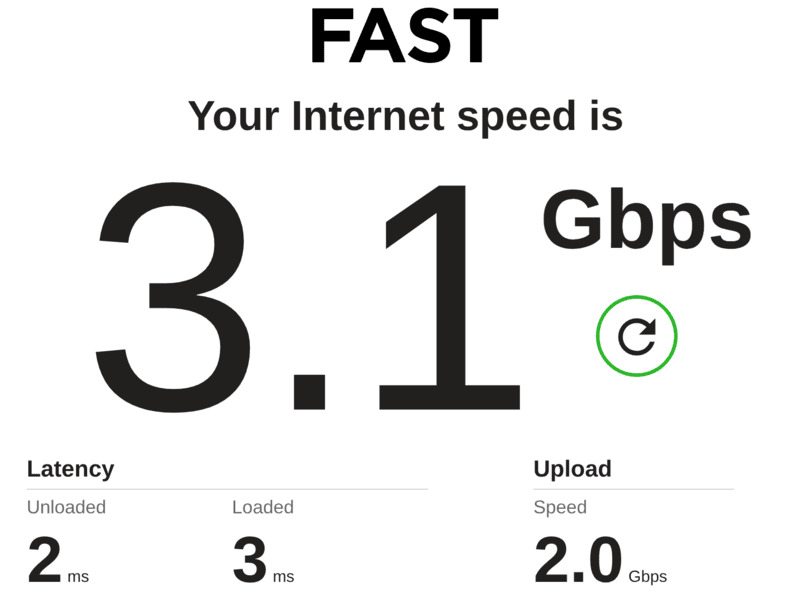
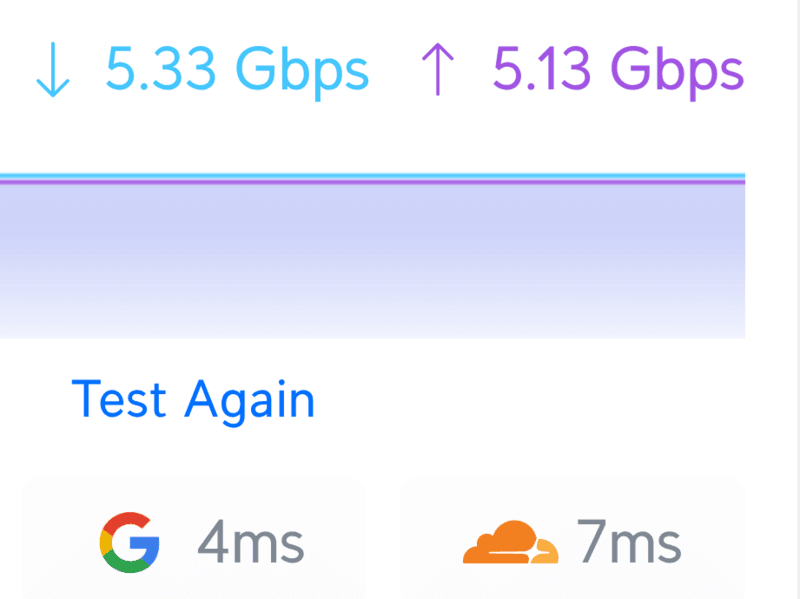
fix: update content

diff --git a/content/posts/goodbye-xfinity/index.md b/content/posts/goodbye-xfinity/index.md
@@ -5,10 +5,10 @@ summary     = "Recounting my experience switching from Xfinity to Optimum Fiber.
 keywords    = []
 date        = "2026-02-02T00:48:29-05:00"
 publishDate = "2026-02-02T00:48:29-05:00"
-lastmod     = "2026-02-09T18:00:00-05:00"
+lastmod     = "2026-02-19T12:00:00-05:00"
 draft       = false
 aliases     = []
-featureAlt  = "An internet speed test showing 3.1 Gbps download and 2.0 Gbps upload."
+featureAlt  = "An internet speed test showing 5.0 Gbps download and 5.0 Gbps upload."
 
 # Taxonomies.
 categories = []
@@ -95,8 +95,8 @@ some IPv6 transition service like Optimum suggested. My equipment is perfectly
 capable of IPv6. Optimum's equipment should be too. Lame!
 
 * Optimum Fiber has really good performance. I'm seeing unloaded and loaded
-latency under 5ms and 3000/3000 speeds with my 5000/5000 plan. Of course you'll
-need a router with at least a 2.5 GbE port to take advantage of speeds over 1000
+latency under 5ms and 5000/5000 speeds with my 5000/5000 plan. Of course you'll
+need a router with at least a 10 GbE port to take advantage of 5000/5000 speeds
 but you already knew that. My WAN port is linked at 10 GbE so I'm good.
 
 ## Should You Switch?
